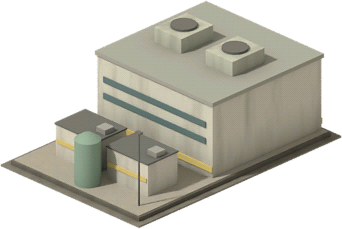
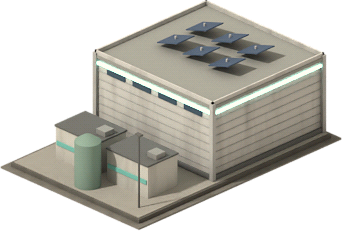
改装した工場に合わせて増設モジュール5種（タイヤ・電線・電池・衛星・光ファイバー）の絵を作り直し
Claude-Session: https://claude.ai/code/session_018rzwRr8JkDqqPcQLfX2TTK

diff --git a/data/sprites_bl.js b/data/sprites_bl.js
@@ -3425,27 +3425,27 @@ window.GAME_DATA.spritesBL = {
    {
     "file": "../assets/bl/module_cableFactory_r1.png",
     "w": 139.0,
-    "h": 79.0,
+    "h": 84.0,
     "ax": 69.5,
-    "ay": 45.1,
+    "ay": 50.1,
     "fw": 2,
     "fd": 2
    },
    {
     "file": "../assets/bl/module_cableFactory_r2.png",
     "w": 139.0,
-    "h": 95.5,
+    "h": 95.0,
     "ax": 69.5,
-    "ay": 61.6,
+    "ay": 61.1,
     "fw": 2,
     "fd": 2
    },
    {
     "file": "../assets/bl/module_cableFactory_r3.png",
     "w": 139.0,
-    "h": 90.0,
+    "h": 95.5,
     "ax": 69.5,
-    "ay": 56.1,
+    "ay": 61.6,
     "fw": 2,
     "fd": 2
    }
@@ -3458,36 +3458,36 @@ window.GAME_DATA.spritesBL = {
    {
     "file": "../assets/bl/module_fiberFactory_r0.png",
     "w": 139.0,
-    "h": 133.0,
+    "h": 118.5,
     "ax": 69.5,
-    "ay": 99.1,
+    "ay": 84.6,
     "fw": 2,
     "fd": 2
    },
    {
     "file": "../assets/bl/module_fiberFactory_r1.png",
     "w": 139.0,
-    "h": 123.0,
+    "h": 103.0,
     "ax": 69.5,
-    "ay": 89.1,
+    "ay": 69.1,
     "fw": 2,
     "fd": 2
    },
    {
     "file": "../assets/bl/module_fiberFactory_r2.png",
     "w": 139.0,
-    "h": 138.5,
+    "h": 123.5,
     "ax": 69.5,
-    "ay": 104.6,
+    "ay": 89.6,
     "fw": 2,
     "fd": 2
    },
    {
     "file": "../assets/bl/module_fiberFactory_r3.png",
     "w": 139.0,
-    "h": 148.5,
+    "h": 139.0,
     "ax": 69.5,
-    "ay": 114.6,
+    "ay": 105.1,
     "fw": 2,
     "fd": 2
    }
@@ -3626,18 +3626,18 @@ window.GAME_DATA.spritesBL = {
    {
     "file": "../assets/bl/module_satelliteFactory_r0.png",
     "w": 203.0,
-    "h": 139.5,
+    "h": 132.5,
     "ax": 101.5,
-    "ay": 91.1,
+    "ay": 84.1,
     "fw": 3,
     "fd": 3
    },
    {
     "file": "../assets/bl/module_satelliteFactory_r1.png",
     "w": 203.0,
-    "h": 119.5,
+    "h": 114.0,
     "ax": 101.5,
-    "ay": 71.1,
+    "ay": 65.6,
     "fw": 3,
     "fd": 3
    },
@@ -3653,9 +3653,9 @@ window.GAME_DATA.spritesBL = {
    {
     "file": "../assets/bl/module_satelliteFactory_r3.png",
     "w": 203.0,
-    "h": 136.5,
+    "h": 146.0,
     "ax": 101.5,
-    "ay": 88.1,
+    "ay": 97.6,
     "fw": 3,
     "fd": 3
    }
@@ -3752,18 +3752,18 @@ window.GAME_DATA.spritesBL = {
    {
     "file": "../assets/bl/module_tireFactory_r0.png",
     "w": 203.0,
-    "h": 124.5,
+    "h": 133.5,
     "ax": 101.5,
-    "ay": 76.1,
+    "ay": 85.1,
     "fw": 3,
     "fd": 3
    },
    {
     "file": "../assets/bl/module_tireFactory_r1.png",
     "w": 203.0,
-    "h": 107.5,
+    "h": 103.5,
     "ax": 101.5,
-    "ay": 59.1,
+    "ay": 55.1,
     "fw": 3,
     "fd": 3
    },
@@ -3779,9 +3779,9 @@ window.GAME_DATA.spritesBL = {
    {
     "file": "../assets/bl/module_tireFactory_r3.png",
     "w": 203.0,
-    "h": 124.5,
+    "h": 126.5,
     "ax": 101.5,
-    "ay": 76.1,
+    "ay": 78.1,
     "fw": 3,
     "fd": 3
    }
@@ -3794,18 +3794,18 @@ window.GAME_DATA.spritesBL = {
    {
     "file": "../assets/bl/module_batteryFactory_r0.png",
     "w": 171.0,
-    "h": 114.5,
+    "h": 115.5,
     "ax": 85.5,
-    "ay": 73.1,
+    "ay": 74.1,
     "fw": 2,
     "fd": 3
    },
    {
     "file": "../assets/bl/module_batteryFactory_r1.png",
     "w": 171.0,
-    "h": 97.0,
+    "h": 98.5,
     "ax": 85.5,
-    "ay": 55.6,
+    "ay": 57.1,
     "fw": 3,
     "fd": 2
    },
@@ -3821,9 +3821,9 @@ window.GAME_DATA.spritesBL = {
    {
     "file": "../assets/bl/module_batteryFactory_r3.png",
     "w": 171.0,
-    "h": 114.5,
+    "h": 116.0,
     "ax": 85.5,
-    "ay": 73.1,
+    "ay": 74.6,
     "fw": 3,
     "fd": 2
    }
